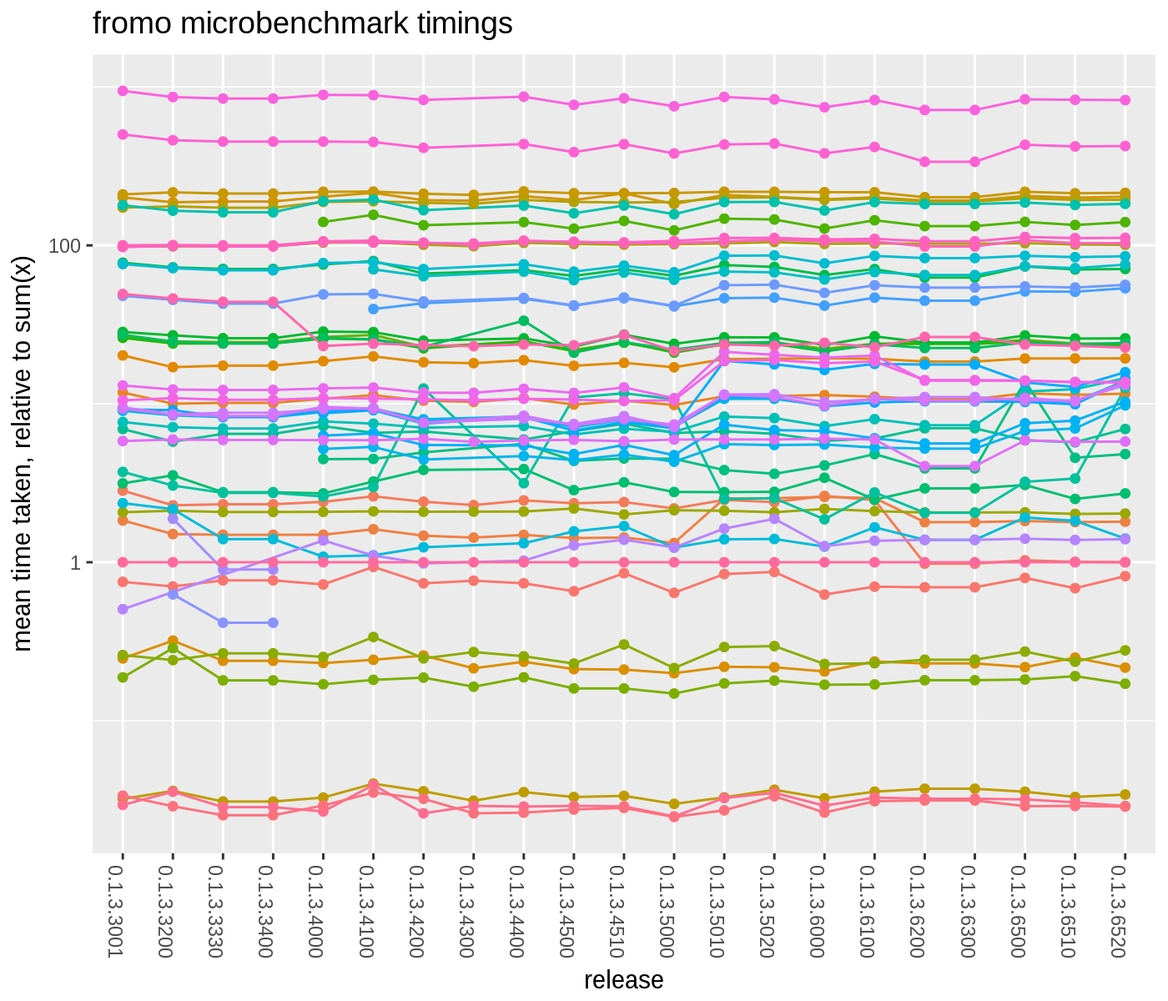
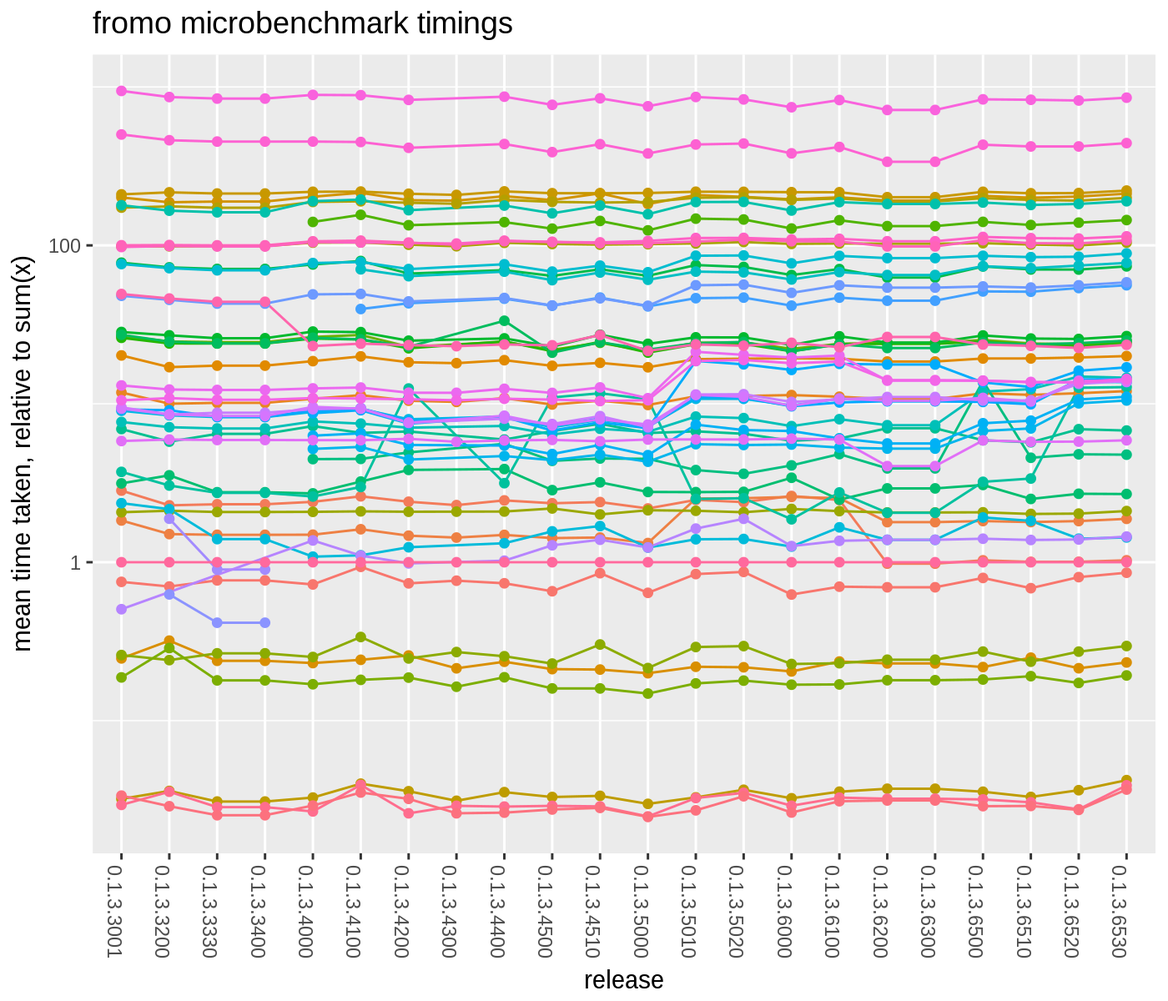
correcting converter to skew and whatnot.
denominator and normalization. used_df is for sg only?

diff --git a/src/fromo.cpp b/src/fromo.cpp
@@ -2380,8 +2380,7 @@ class moment_converter<ret_skew4,F,T,renormalize> {
                     xret(rownum,3) = mydf; 
                     xret(rownum,2) = vret[1];
                     xret(rownum,1) = sigma;
-                    // uhoh! renormalization!
-                    xret(rownum,0) = COMP_SKEW_TWO(vret,dwsum) / sqrt(dwsum);
+                    xret(rownum,0) = COMP_SKEW_TWO(vret,dwsum);
                 } else {
                     xret(rownum,3) = mydf; 
                     if (mydf >= 1) {
@@ -2436,9 +2435,9 @@ class moment_converter<ret_exkurt5,F,T,renormalize> {
                     xret(rownum,3) = vret[1];
                     xret(rownum,2) = sigma;
                     // uhoh! renormalization!
-                    xret(rownum,1) = COMP_SKEW_TWO(vret,dwsum) / sqrt(dwsum);
+                    xret(rownum,1) = COMP_SKEW_TWO(vret,dwsum);
                     // uhoh! renormalization!
-                    xret(rownum,0) = (COMP_KURT_TWO(vret,dwsum) / dwsum) - 3.0;
+                    xret(rownum,0) = (COMP_KURT_TWO(vret,dwsum)) - 3.0;
                 } else {
                     xret(rownum,4) = mydf; 
                     if (mydf >= 1) {
@@ -2447,7 +2446,7 @@ class moment_converter<ret_exkurt5,F,T,renormalize> {
                             xret(rownum,2) = sigma;
                             if (mydf >= 3) {
                                 // uhoh! renormalization!
-                                xret(rownum,1) = COMP_SKEW_TWO(vret,dwsum) / sqrt(dwsum);
+                                xret(rownum,1) = COMP_SKEW_TWO(vret,dwsum);
                             } else {
                                 xret(rownum,1) = NAN;
                             }
@@ -3525,7 +3524,6 @@ NumericVector cent2raw(NumericVector input) {
 // for help on dispatch, see:
 // http://stackoverflow.com/a/25254680/164611
 // http://gallery.rcpp.org/articles/rcpp-wrap-and-recurse/
-
-
+     
 //for vim modeline: (do not edit)
 // vim:et:nowrap:ts=4:sw=4:tw=129:fdm=marker:fmr=FOLDUP,UNFOLD:cms=//%s:tags=.c_tags;:syn=cpp:ft=cpp:mps+=<\:>:ai:si:cin:nu:fo=croql:cino=p0t0c5(0:

diff --git a/nodist/timings.md b/nodist/timings.md
@@ -25,7 +25,7 @@ print(Sys.info())
 ##                                       sysname                                       release                                       version 
 ##                                       "Linux"                            "4.4.0-77-generic" "#98-Ubuntu SMP Wed Apr 26 08:34:02 UTC 2017" 
 ##                                      nodename                                       machine                                         login 
-##                                "9ce2c05e6acc"                                      "x86_64"                                     "unknown" 
+##                                "541b36143acc"                                      "x86_64"                                     "unknown" 
 ##                                          user                                effective_user 
 ##                                        "spav"                                        "spav"
 ```
@@ -49,7 +49,7 @@ print(sessionInfo())
 ## 
 ## other attached packages:
 ##  [1] RcppParallel_4.3.20    RcppRoll_0.2.2         roll_1.0.7             RollingWindow_0.2      microbenchmark_1.4-2.1 moments_0.14          
-##  [7] dplyr_0.5.0            ggplot2_2.2.1          knitr_1.15.1           fromo_0.1.3.6520      
+##  [7] dplyr_0.5.0            ggplot2_2.2.1          knitr_1.15.1           fromo_0.1.3.6530      
 ## 
 ## loaded via a namespace (and not attached):
 ##  [1] Rcpp_0.12.11     grDevices_3.3.0  assertthat_0.1   R6_2.1.2         grid_3.3.0       plyr_1.8.4       DBI_0.6-1        gtable_0.2.0     formatR_1.4     
@@ -78,15 +78,15 @@ print(checkit)
 ```
 ## Unit: microseconds
 ##         expr   min    lq  mean median    uq   max neval      cld
-##       sum(x)    80    80    85     80    87   144   100 a       
-##      mean(x)   162   164   172    166   176   289   100 a       
-##        sd(x)   459   466   489    475   490   707   100  b      
-##  skewness(x)  8285  8352  8717   8447  8860 11501   100     e   
-##  kurtosis(x)  8104  8166  8464   8212  8565 10295   100    d    
-##       sd3(x)  1113  1120  1164   1137  1172  1436   100   c     
-##     skew4(x)  9029  9107  9358   9162  9514 10729   100      f  
-##     kurt5(x) 15760 15854 16226  16015 16368 18978   100       g 
-##     dumbk(x) 17080 17252 18114  17582 18713 22048   100        h
+##       sum(x)    80    80    82     80    81   100   100 a       
+##      mean(x)   162   163   172    165   171   264   100 a       
+##        sd(x)   459   463   480    475   486   595   100  b      
+##  skewness(x)  8288  8341  8765   8422  8766 13862   100     e   
+##  kurtosis(x)  8120  8197  8482   8257  8420 11483   100    d    
+##       sd3(x)  1113  1122  1170   1145  1172  1476   100   c     
+##     skew4(x)  9017  9091  9297   9163  9344 11317   100      f  
+##     kurt5(x) 15758 15866 16272  16015 16259 20392   100       g 
+##     dumbk(x) 17052 17257 18080  17514 18807 22264   100        h
 ```
 
 ```r
@@ -111,9 +111,9 @@ print(checkit)
 ```
 ## Unit: milliseconds
 ##                                                                          expr  min   lq mean median   uq  max neval cld
-##  cent_moments(x, max_order = 4, wts = w, na_rm = TRUE, normalize_wts = FALSE) 16.7 16.8 17.2   16.9 17.1 21.6   100   c
+##  cent_moments(x, max_order = 4, wts = w, na_rm = TRUE, normalize_wts = FALSE) 16.6 16.7 17.3   16.9 17.4 20.7   100   c
 ##                                                               sd3(x, wts = w)  1.1  1.1  1.2    1.1  1.2  1.4   100 a  
-##                                                                 slow_sd(x, w)  1.4  1.4  1.9    1.5  2.7  4.0   100  b
+##                                                                 slow_sd(x, w)  1.4  1.4  1.9    1.5  2.7  3.7   100  b
 ```
 
 ```r
@@ -134,10 +134,10 @@ print(checkit)
 ```
 ## Unit: microseconds
 ##                expr  min   lq mean median   uq  max neval  cld
-##  as.centsums(x1, 1)   77   79   85     84   88  144   100 a   
-##  as.centsums(x1, 2)  140  142  154    153  158  346   100  b  
-##  as.centsums(x1, 3)  922  927  988    983 1024 1260   100   c 
-##  as.centsums(x1, 4) 1550 1564 1660   1675 1713 2235   100    d
+##  as.centsums(x1, 1)   76   78   84     83   86   99   100 a   
+##  as.centsums(x1, 2)  140  142  153    152  154  314   100  b  
+##  as.centsums(x1, 3)  921  928  980   1000 1005 1133   100   c 
+##  as.centsums(x1, 4) 1549 1554 1632   1640 1690 1822   100    d
 ```
 
 ```r
@@ -156,8 +156,8 @@ print(checkit)
 ```
 ## Unit: microseconds
 ##           expr min lq mean median uq max neval cld
-##  c(obj1, obj2)  14 15   18     16 16 178   100   a
-##  obj3 %-% obj1  11 12   15     13 13  93   100   a
+##  c(obj1, obj2)  15 16   19     17 18 190   100   a
+##  obj3 %-% obj1  12 13   16     13 14  97   100   a
 ```
 
 ```r
@@ -176,10 +176,10 @@ print(checkit)
 
 ```
 ## Unit: microseconds
-##                        expr min  lq mean median  uq  max neval cld
-##    join_cent_sums(rs1, rs2) 2.2 2.4  3.1    2.5 2.6 37.1   100   b
-##  unjoin_cent_sums(rs3, rs2) 2.0 2.2  2.3    2.3 2.4  3.1   100  a 
-##  unjoin_cent_sums(rs3, rs1) 2.0 2.1  2.3    2.2 2.4  7.2   100  a
+##                        expr min  lq mean median  uq max neval cld
+##    join_cent_sums(rs1, rs2) 2.8 3.0  3.4    3.1 3.3  28   100   a
+##  unjoin_cent_sums(rs3, rs2) 2.5 2.7  3.0    2.8 3.0  18   100   a
+##  unjoin_cent_sums(rs3, rs1) 2.5 2.7  3.2    2.8 2.9  24   100   a
 ```
 
 ```r
@@ -211,8 +211,8 @@ print(checkit)
 ```
 ## Unit: microseconds
 ##                        expr min lq mean median uq max neval cld
-##  as.centcosums(x1, max_ord)  60 62   68     63 68 176   100   b
-##             mobj3 %-% mobj1  19 20   23     22 23  46   100  a
+##  as.centcosums(x1, max_ord)  62 64   70     65 67 216   100   b
+##             mobj3 %-% mobj1  20 21   24     22 24  39   100  a
 ```
 
 ```r
@@ -272,34 +272,34 @@ print(checkit)
 
 ```
 ## Unit: microseconds
-##                                                           expr   min    lq  mean median    uq    max neval       cld
-##                         silly_fun(x, wins, sum, na.rm = FALSE) 32014 33031 35636  34990 35886 114927   100        h 
-##                        silly_fun(x, wins, mean, na.rm = FALSE) 63374 65581 69574  66776 68829 146905   100         i
-##                                           running_sum(x, wins)   105   111   118    115   121    249   100 a        
-##                                          running_mean(x, wins)   106   112   119    117   123    155   100 a        
-##                                       roll::roll_sum(xm, wins)  1899  1944  2046   1975  2010   4535   100   c      
-##                                      roll::roll_mean(xm, wins)  2080  2112  2173   2146  2191   2676   100   c      
-##                                        roll::roll_sd(xm, wins)  5754  5820  5960   5874  5952   7106   100    de    
-##       RollingWindow::RollingSum(x, wins, na_method = "ignore")   370   401   586    433   467   3419   100 a c      
-##                             RollingWindow::RollingSum(x, wins)   123   145  1070    166   199  80931   100 a c      
-##                            RollingWindow::RollingMean(x, wins)   152   179   229    197   232   2751   100 ab       
-##                             RollingWindow::RollingStd(x, wins)   232   267   406    293   319   2819   100 a c      
-##   RcppRoll::roll_sum(xm, n = wins, align = "right", fill = NA)  1748  1799  1959   1956  2012   4476   100  bc      
-##  RcppRoll::roll_mean(xm, n = wins, align = "right", fill = NA)  1739  1847  2013   2007  2054   3941   100  bc      
-##    RcppRoll::roll_sd(xm, n = wins, align = "right", fill = NA) 10620 10975 11781  11286 12931  14616   100      f   
-##    running_sd(x, wins, na_rm = FALSE, restart_period = 50000L)   731   781   853    846   898   1068   100 a c      
-##      running_sd(x, wins, na_rm = TRUE, restart_period = 1000L)   784   825   903    886   954   1318   100 a c      
-##                                           running_sd3(x, wins)  1187  1260  1370   1366  1434   1779   100 a c      
-##                                          running_skew(x, wins)  4239  4330  4556   4410  4608   9977   100    d     
-##                                         running_skew4(x, wins)  4498  4571  4741   4674  4804   5755   100    d     
-##                                          running_kurt(x, wins)  6031  6126  6317   6225  6380   8644   100    de    
-##                                         running_kurt5(x, wins)  6827  6956  7183   7058  7205  10252   100     e    
-##                                         running_tstat(x, wins)  1005  1059  1132   1122  1188   1543   100 a c      
-##                                       running_zscored(x, wins)  1017  1073  1185   1149  1226   3153   100 a c      
-##                                        running_sharpe(x, wins)  1008  1062  1207   1126  1207   3550   100 a c      
-##                                    running_apx_median(x, wins) 14809 15017 15465  15128 15400  25480   100       g  
-##                                      running_centered(x, wins)  1100  1179  1259   1247  1322   1653   100 a c      
-##                                        running_scaled(x, wins)  1003  1072  1170   1136  1208   3889   100 a c
+##                                                           expr   min    lq  mean median    uq    max neval        cld
+##                         silly_fun(x, wins, sum, na.rm = FALSE) 32439 33879 36038  35189 36275 111397   100         i 
+##                        silly_fun(x, wins, mean, na.rm = FALSE) 63459 65507 69758  66836 69396 144116   100          j
+##                                           running_sum(x, wins)   104   110   118    112   124    203   100 a         
+##                                          running_mean(x, wins)   106   110   117    113   121    173   100 a         
+##                                       roll::roll_sum(xm, wins)  1840  1931  2041   1974  2026   4047   100   cd      
+##                                      roll::roll_mean(xm, wins)  2065  2108  2180   2129  2205   2808   100    d      
+##                                        roll::roll_sd(xm, wins)  5730  5795  6010   5867  5988   7317   100     ef    
+##       RollingWindow::RollingSum(x, wins, na_method = "ignore")   358   385   553    426   461   2735   100 a  d      
+##                             RollingWindow::RollingSum(x, wins)   113   132  1039    157   191  79345   100 a  d      
+##                            RollingWindow::RollingMean(x, wins)   141   163   220    194   225   2491   100 ab        
+##                             RollingWindow::RollingStd(x, wins)   226   255   389    286   319   2467   100 a c       
+##   RcppRoll::roll_sum(xm, n = wins, align = "right", fill = NA)  1754  1852  1979   1955  2015   4178   100  bcd      
+##  RcppRoll::roll_mean(xm, n = wins, align = "right", fill = NA)  1733  1822  2034   2015  2106   4044   100   cd      
+##    RcppRoll::roll_sd(xm, n = wins, align = "right", fill = NA) 10668 11060 11783  11339 12691  14737   100       g   
+##    running_sd(x, wins, na_rm = FALSE, restart_period = 50000L)   720   775   856    849   926   1141   100 a  d      
+##      running_sd(x, wins, na_rm = TRUE, restart_period = 1000L)   788   837   903    880   953   1150   100 a  d      
+##                                           running_sd3(x, wins)  1200  1287  1385   1351  1467   1762   100 a  d      
+##                                          running_skew(x, wins)  4235  4339  4567   4421  4596  10061   100     e     
+##                                         running_skew4(x, wins)  4484  4611  4767   4709  4823   5661   100     e     
+##                                          running_kurt(x, wins)  6013  6115  6324   6201  6384   8357   100     ef    
+##                                         running_kurt5(x, wins)  6799  6995  7257   7106  7387   9628   100      f    
+##                                         running_tstat(x, wins)  1021  1068  1136   1131  1181   1479   100 a  d      
+##                                       running_zscored(x, wins)  1012  1047  1121   1078  1126   3063   100 a  d      
+##                                        running_sharpe(x, wins)  1006  1044  1165   1088  1118   3383   100 a  d      
+##                                    running_apx_median(x, wins) 14751 14984 15481  15194 15713  18215   100        h  
+##                                      running_centered(x, wins)  1064  1141  1191   1173  1224   1528   100 a  d      
+##                                        running_scaled(x, wins)  1006  1041  1117   1082  1115   3429   100 a  d
 ```
 
 ```r
@@ -383,48 +383,48 @@ allt %>% select(expr, sernum, relchange, last_status) %>%
 
 
 
-|expr                                                                         | 0.1.3.3001| 0.1.3.3200| 0.1.3.3330| 0.1.3.3400| 0.1.3.4000| 0.1.3.4100| 0.1.3.4200| 0.1.3.4300| 0.1.3.4400| 0.1.3.4500| 0.1.3.4510| 0.1.3.5000| 0.1.3.5010| 0.1.3.5020| 0.1.3.6000| 0.1.3.6100| 0.1.3.6200| 0.1.3.6300| 0.1.3.6500| 0.1.3.6510| 0.1.3.6520|
-|:----------------------------------------------------------------------------|----------:|----------:|----------:|----------:|----------:|----------:|----------:|----------:|----------:|----------:|----------:|----------:|----------:|----------:|----------:|----------:|----------:|----------:|----------:|----------:|----------:|
-|RollingWindow::RollingSum(x, wins)                                           |          1|       0.82|       0.74|       0.74|       0.70|       0.80|       3.36|         NA|       0.85|       2.95|       3.14|       2.87|       0.67|       0.68|       0.50|       0.74|       0.55|       0.55|       0.87|       0.91|       3.39|
-|running_sum(x, wins)                                                         |          1|         NA|         NA|         NA|       2.72|       2.18|       1.95|         NA|       2.02|       2.53|       2.74|       2.45|       3.23|       3.72|       2.50|       2.70|       2.74|       2.74|       2.79|       2.74|       2.77|
-|running_centered(x, wins)                                                    |          1|       0.93|       0.91|       0.91|       1.01|       0.98|       0.92|         NA|       0.94|       0.84|       0.91|       0.87|       1.08|       1.06|       0.94|       1.04|       0.95|       0.95|       1.56|       1.61|       1.89|
-|running_sd(x, wins, na_rm = FALSE, restart_period = 50000L)                  |         NA|         NA|         NA|         NA|       1.00|       1.03|       0.86|         NA|       0.90|       0.85|       0.92|       0.83|       1.07|       1.06|       1.07|       1.02|       1.00|       1.00|       1.30|       1.35|       1.88|
-|running_sd3(x, wins)                                                         |         NA|         NA|         NA|         NA|       1.00|       1.04|       0.86|         NA|       0.95|       0.78|       0.88|       0.80|       2.14|       2.03|       1.88|       2.05|       2.03|       2.03|       1.56|       1.46|       1.82|
-|running_sd(x, wins, na_rm = TRUE, restart_period = 1000L)                    |         NA|         NA|         NA|         NA|       1.00|       1.03|       0.87|         NA|       0.87|       0.77|       0.87|       0.75|       1.17|       1.08|       1.07|       0.96|       0.89|       0.89|       1.20|       1.24|       1.64|
-|running_scaled(x, wins)                                                      |          1|       0.94|       0.91|       0.91|       0.98|       1.03|       0.88|         NA|       0.92|       0.79|       0.88|       0.79|       1.19|       1.19|       1.08|       1.19|       1.15|       1.15|       1.15|       1.15|       1.54|
-|running_sharpe(x, wins)                                                      |          1|       0.99|       0.90|       0.90|       0.98|       1.02|       0.84|         NA|       0.90|       0.79|       0.88|       0.77|       1.20|       1.19|       1.05|       1.11|       1.13|       1.13|       1.11|       1.08|       1.53|
-|running_zscored(x, wins)                                                     |          1|       0.90|       0.88|       0.88|       1.01|       0.98|       0.80|         NA|       0.89|       0.77|       0.84|       0.78|       1.20|       1.17|       1.02|       1.14|       1.10|       1.10|       1.15|       1.09|       1.44|
-|running_tstat(x, wins)                                                       |          1|       0.92|       0.94|       0.94|       0.99|       1.01|       0.82|         NA|       0.86|       0.80|       0.90|       0.76|       1.23|       1.23|       1.10|       1.14|       1.18|       1.18|       1.13|       1.13|       1.41|
-|running_skew(x, wins)                                                        |         NA|         NA|         NA|         NA|         NA|       1.00|       1.09|         NA|       1.16|       1.05|       1.18|       1.04|       1.17|       1.18|       1.05|       1.18|       1.13|       1.13|       1.29|       1.29|       1.35|
-|sd3(x)                                                                       |          1|       1.03|       1.01|       1.01|       1.03|       1.03|       1.02|       1.00|       1.02|       1.01|       0.99|       1.00|       1.77|       1.80|       1.71|       1.76|       1.34|       1.34|       1.33|       1.30|       1.30|
-|running_skew4(x, wins)                                                       |          1|       0.94|       0.89|       0.89|       1.02|       1.03|       0.92|         NA|       0.97|       0.87|       0.96|       0.86|       1.17|       1.18|       1.04|       1.17|       1.13|       1.13|       1.15|       1.13|       1.17|
-|skew4(x)                                                                     |          1|       1.01|       1.01|       1.01|       1.07|       1.07|       1.06|       1.05|       1.10|       1.08|       1.07|       1.09|       1.14|       1.14|       1.12|       1.13|       1.09|       1.09|       1.16|       1.14|       1.14|
-|kurt5(x)                                                                     |          1|       1.02|       1.00|       1.00|       1.09|       1.10|       1.07|       1.06|       1.12|       1.09|       1.08|       1.08|       1.15|       1.16|       1.12|       1.14|       1.09|       1.09|       1.15|       1.12|       1.12|
-|running_kurt5(x, wins)                                                       |          1|       0.94|       0.91|       0.91|       1.01|       1.03|       0.93|         NA|       1.00|       0.90|       0.98|       0.89|       1.13|       1.13|       1.01|       1.13|       1.09|       1.09|       1.13|       1.11|       1.12|
-|as.centcosums(x1, max_ord)                                                   |          1|       0.93|       1.02|       1.02|       0.96|       1.24|       0.98|       1.02|       0.98|       0.87|       1.13|       0.85|       1.12|       1.16|       0.83|       0.93|       0.92|       0.92|       1.06|       0.91|       1.09|
-|RollingWindow::RollingStd(x, wins)                                           |         NA|         NA|         NA|         NA|       1.00|       1.00|       1.10|         NA|       1.25|       0.98|       1.01|       1.00|       0.85|       0.81|       0.91|       1.08|       0.87|       0.87|       3.10|       1.02|       1.08|
-|running_kurt(x, wins)                                                        |         NA|         NA|         NA|         NA|         NA|       1.00|       0.91|         NA|       0.97|       0.85|       0.95|       0.86|       0.97|       0.96|       0.86|       0.96|       0.92|       0.92|       1.05|       1.02|       1.07|
-|mobj3 %-% mobj1                                                              |          1|       0.93|       1.03|       1.03|       0.97|       1.30|       0.95|       1.04|       0.98|       0.88|       1.17|       0.83|       1.12|       1.14|       0.88|       0.89|       0.93|       0.93|       1.05|       0.91|       1.07|
-|join_cent_sums(rs1, rs2)                                                     |          1|       1.12|       0.96|       0.96|       1.02|       1.25|       1.12|       0.97|       1.10|       1.03|       1.05|       0.93|       1.02|       1.14|       1.01|       1.11|       1.16|       1.16|       1.11|       1.03|       1.07|
-|sd3(x, wts = w)                                                              |          1|       0.94|       0.94|       0.94|       0.96|       0.97|       0.90|       0.90|       0.95|       0.90|       0.97|       0.83|       1.63|       1.56|       1.50|       1.54|       1.07|       1.07|       1.07|       1.05|       1.04|
-|skewness(x)                                                                  |          1|       1.00|       1.00|       1.00|       1.06|       1.07|       1.04|       1.01|       1.06|       1.05|       1.03|       1.03|       1.06|       1.08|       1.06|       1.05|       0.98|       0.98|       1.08|       1.03|       1.03|
-|kurtosis(x)                                                                  |          1|       1.00|       1.00|       1.00|       1.06|       1.06|       1.03|       1.00|       1.05|       1.04|       1.03|       1.03|       1.04|       1.07|       1.04|       1.04|       1.04|       1.04|       1.05|       1.03|       1.02|
-|dumbk(x)                                                                     |          1|       1.03|       1.01|       1.01|       1.04|       1.04|       1.01|       0.99|       1.04|       1.02|       1.02|       1.02|       1.04|       1.04|       1.03|       1.03|       0.96|       0.96|       1.04|       1.02|       1.02|
-|running_apx_median(x, wins)                                                  |          1|       0.92|       0.90|       0.90|       1.06|       1.09|       0.93|         NA|       1.00|       0.89|       1.00|       0.88|       1.05|       1.05|       0.93|       1.05|       1.02|       1.02|       1.04|       1.00|       1.02|
-|cent_moments(x, max_order = 4, wts = w, na_rm = TRUE, normalize_wts = FALSE) |          1|       0.93|       0.94|       0.94|       1.01|       1.07|       0.96|       0.95|       1.02|       0.96|       1.06|       0.91|       1.04|       1.01|       0.97|       1.00|       0.96|       0.96|       1.02|       1.00|       1.01|
-|RollingWindow::RollingSum(x, wins, na_method = "ignore")                     |          1|       0.83|       0.93|       0.93|       1.04|       0.95|       0.96|         NA|       0.86|       0.97|       1.08|       0.94|       0.97|       0.93|       0.84|       0.87|       1.01|       1.01|       0.85|       0.82|       1.00|
-|sum(x)                                                                       |          1|       1.00|       1.00|       1.00|       1.00|       1.00|       1.00|       1.00|       1.00|       1.00|       1.00|       1.00|       1.00|       1.00|       1.00|       1.00|       1.00|       1.00|       1.00|       1.00|       1.00|
-|RcppRoll::roll_sd(xm, n = wins, align = "right", fill = NA)                  |         NA|         NA|         NA|         NA|       1.00|       1.11|       0.95|         NA|       1.00|       0.91|       1.01|       0.88|       1.05|       1.04|       0.91|       1.02|       0.94|       0.94|       1.00|       0.96|       1.00|
-|sd(x)                                                                        |          1|       1.02|       1.01|       1.01|       1.01|       1.01|       1.03|       0.99|       1.01|       1.02|       1.00|       1.02|       1.02|       1.02|       1.04|       1.02|       0.69|       0.69|       1.01|       0.99|       0.99|
-|unjoin_cent_sums(rs3, rs1)                                                   |          1|       1.21|       0.97|       0.97|       0.91|       1.34|       0.88|       0.99|       0.98|       0.99|       0.98|       0.85|       1.10|       1.19|       0.99|       1.11|       1.09|       1.09|       1.08|       1.04|       0.98|
-|as.centsums(x1, 2)                                                           |          1|       0.82|       0.81|       0.81|       0.81|       0.88|       0.80|       0.78|       0.81|       0.77|       0.78|       0.72|       1.38|       1.38|       1.41|       1.38|       0.98|       0.98|       0.99|       0.98|       0.98|
-|as.centsums(x1, 3)                                                           |          1|       0.85|       0.86|       0.86|       0.91|       0.96|       0.89|       0.87|       0.92|       0.84|       0.89|       0.83|       0.95|       0.95|       0.96|       0.94|       0.91|       0.91|       0.99|       0.97|       0.98|
-|mean(x)                                                                      |          1|       1.02|       1.00|       1.00|       1.01|       1.01|       1.01|       1.01|       1.01|       1.06|       0.97|       1.03|       1.02|       1.00|       1.05|       1.02|       1.00|       1.00|       1.00|       0.98|       0.98|
-|as.centsums(x1, 4)                                                           |          1|       0.84|       0.86|       0.86|       0.92|       0.99|       0.91|       0.89|       0.93|       0.86|       0.90|       0.84|       0.95|       0.95|       0.96|       0.95|       0.92|       0.92|       0.96|       0.96|       0.96|
-|roll::roll_sd(xm, wins)                                                      |          1|       0.93|       0.91|       0.91|       0.97|       1.02|       0.85|         NA|       0.90|       0.83|       0.91|       0.83|       0.97|       0.94|       0.84|       0.91|       0.81|       0.81|       0.95|       0.91|       0.91|
-|obj3 %-% obj1                                                                |          1|       1.53|       0.96|       0.96|       0.91|       0.97|       1.00|       0.87|       1.00|       0.85|       0.85|       0.79|       0.92|       0.95|       0.90|       0.90|       0.96|       0.96|       0.97|       1.02|       0.91|
-|roll::roll_mean(xm, wins)                                                    |          1|       0.95|       0.91|       0.91|       1.01|       1.00|       0.88|         NA|       0.91|       0.81|       0.96|       0.84|       0.93|       0.92|       0.83|       0.94|       0.86|       0.86|       0.95|       0.91|       0.91|
-|RcppRoll::roll_sum(xm, n = wins, align = "right", fill = NA)                 |          1|       0.92|       0.92|       0.92|       0.99|       0.98|       0.86|         NA|       0.95|       0.82|       0.94|       0.81|       0.91|       0.91|       0.82|       0.91|       0.92|       0.92|       0.95|       0.90|       0.89|
+|expr                                                                         | 0.1.3.3001| 0.1.3.3200| 0.1.3.3330| 0.1.3.3400| 0.1.3.4000| 0.1.3.4100| 0.1.3.4200| 0.1.3.4300| 0.1.3.4400| 0.1.3.4500| 0.1.3.4510| 0.1.3.5000| 0.1.3.5010| 0.1.3.5020| 0.1.3.6000| 0.1.3.6100| 0.1.3.6200| 0.1.3.6300| 0.1.3.6500| 0.1.3.6510| 0.1.3.6520| 0.1.3.6530|
+|:----------------------------------------------------------------------------|----------:|----------:|----------:|----------:|----------:|----------:|----------:|----------:|----------:|----------:|----------:|----------:|----------:|----------:|----------:|----------:|----------:|----------:|----------:|----------:|----------:|----------:|
+|RollingWindow::RollingSum(x, wins)                                           |          1|       0.82|       0.74|       0.74|       0.70|       0.80|       3.36|         NA|       0.85|       2.95|       3.14|       2.87|       0.67|       0.68|       0.50|       0.74|       0.55|       0.55|       0.87|       0.91|       3.40|       3.43|
+|running_sum(x, wins)                                                         |          1|         NA|         NA|         NA|       2.72|       2.18|       1.95|         NA|       2.02|       2.53|       2.74|       2.45|       3.23|       3.72|       2.50|       2.70|       2.74|       2.74|       2.79|       2.74|       2.76|       2.87|
+|running_sd(x, wins, na_rm = FALSE, restart_period = 50000L)                  |         NA|         NA|         NA|         NA|       1.00|       1.03|       0.86|         NA|       0.90|       0.85|       0.92|       0.83|       1.07|       1.06|       1.07|       1.02|       1.00|       1.00|       1.30|       1.35|       1.94|       2.02|
+|running_sd3(x, wins)                                                         |         NA|         NA|         NA|         NA|       1.00|       1.04|       0.86|         NA|       0.95|       0.78|       0.88|       0.80|       2.14|       2.03|       1.88|       2.05|       2.03|       2.03|       1.56|       1.46|       1.85|       1.95|
+|running_centered(x, wins)                                                    |          1|       0.93|       0.91|       0.91|       1.01|       0.98|       0.92|         NA|       0.94|       0.84|       0.91|       0.87|       1.08|       1.06|       0.94|       1.04|       0.95|       0.95|       1.56|       1.61|       1.94|       1.90|
+|running_sd(x, wins, na_rm = TRUE, restart_period = 1000L)                    |         NA|         NA|         NA|         NA|       1.00|       1.03|       0.87|         NA|       0.87|       0.77|       0.87|       0.75|       1.17|       1.08|       1.07|       0.96|       0.89|       0.89|       1.20|       1.24|       1.69|       1.76|
+|running_sharpe(x, wins)                                                      |          1|       0.99|       0.90|       0.90|       0.98|       1.02|       0.84|         NA|       0.90|       0.79|       0.88|       0.77|       1.20|       1.19|       1.05|       1.11|       1.13|       1.13|       1.11|       1.08|       1.55|       1.55|
+|running_scaled(x, wins)                                                      |          1|       0.94|       0.91|       0.91|       0.98|       1.03|       0.88|         NA|       0.92|       0.79|       0.88|       0.79|       1.19|       1.19|       1.08|       1.19|       1.15|       1.15|       1.15|       1.15|       1.53|       1.52|
+|running_tstat(x, wins)                                                       |          1|       0.92|       0.94|       0.94|       0.99|       1.01|       0.82|         NA|       0.86|       0.80|       0.90|       0.76|       1.23|       1.23|       1.10|       1.14|       1.18|       1.18|       1.13|       1.13|       1.43|       1.50|
+|running_zscored(x, wins)                                                     |          1|       0.90|       0.88|       0.88|       1.01|       0.98|       0.80|         NA|       0.89|       0.77|       0.84|       0.78|       1.20|       1.17|       1.02|       1.14|       1.10|       1.10|       1.15|       1.09|       1.47|       1.45|
+|running_skew(x, wins)                                                        |         NA|         NA|         NA|         NA|         NA|       1.00|       1.09|         NA|       1.16|       1.05|       1.18|       1.04|       1.17|       1.18|       1.05|       1.18|       1.13|       1.13|       1.29|       1.29|       1.36|       1.41|
+|sd3(x)                                                                       |          1|       1.03|       1.01|       1.01|       1.03|       1.03|       1.02|       1.00|       1.02|       1.01|       0.99|       1.00|       1.77|       1.80|       1.71|       1.76|       1.34|       1.34|       1.33|       1.30|       1.31|       1.36|
+|unjoin_cent_sums(rs3, rs1)                                                   |          1|       1.21|       0.97|       0.97|       0.91|       1.34|       0.88|       0.99|       0.98|       0.99|       0.98|       0.85|       1.10|       1.19|       0.99|       1.11|       1.09|       1.09|       1.08|       1.04|       0.94|       1.33|
+|join_cent_sums(rs1, rs2)                                                     |          1|       1.12|       0.96|       0.96|       1.02|       1.25|       1.12|       0.97|       1.10|       1.03|       1.05|       0.93|       1.02|       1.14|       1.01|       1.11|       1.16|       1.16|       1.11|       1.03|       1.13|       1.31|
+|running_skew4(x, wins)                                                       |          1|       0.94|       0.89|       0.89|       1.02|       1.03|       0.92|         NA|       0.97|       0.87|       0.96|       0.86|       1.17|       1.18|       1.04|       1.17|       1.13|       1.13|       1.15|       1.13|       1.16|       1.22|
+|skew4(x)                                                                     |          1|       1.01|       1.01|       1.01|       1.07|       1.07|       1.06|       1.05|       1.10|       1.08|       1.07|       1.09|       1.14|       1.14|       1.12|       1.13|       1.09|       1.09|       1.16|       1.14|       1.13|       1.17|
+|running_kurt5(x, wins)                                                       |          1|       0.94|       0.91|       0.91|       1.01|       1.03|       0.93|         NA|       1.00|       0.90|       0.98|       0.89|       1.13|       1.13|       1.01|       1.13|       1.09|       1.09|       1.13|       1.11|       1.11|       1.17|
+|kurt5(x)                                                                     |          1|       1.02|       1.00|       1.00|       1.09|       1.10|       1.07|       1.06|       1.12|       1.09|       1.08|       1.08|       1.15|       1.16|       1.12|       1.14|       1.09|       1.09|       1.15|       1.12|       1.11|       1.15|
+|as.centcosums(x1, max_ord)                                                   |          1|       0.93|       1.02|       1.02|       0.96|       1.24|       0.98|       1.02|       0.98|       0.87|       1.13|       0.85|       1.12|       1.16|       0.83|       0.93|       0.92|       0.92|       1.06|       0.91|       1.07|       1.14|
+|mobj3 %-% mobj1                                                              |          1|       0.93|       1.03|       1.03|       0.97|       1.30|       0.95|       1.04|       0.98|       0.88|       1.17|       0.83|       1.12|       1.14|       0.88|       0.89|       0.93|       0.93|       1.05|       0.91|       1.05|       1.14|
+|running_kurt(x, wins)                                                        |         NA|         NA|         NA|         NA|         NA|       1.00|       0.91|         NA|       0.97|       0.85|       0.95|       0.86|       0.97|       0.96|       0.86|       0.96|       0.92|       0.92|       1.05|       1.02|       1.06|       1.10|
+|unjoin_cent_sums(rs3, rs2)                                                   |          1|       0.86|       0.75|       0.75|       0.87|       1.05|       0.95|       0.77|       0.78|       0.82|       0.84|       0.73|       0.81|       0.99|       0.78|       0.92|       0.93|       0.93|       0.86|       0.86|       0.81|       1.09|
+|sd3(x, wts = w)                                                              |          1|       0.94|       0.94|       0.94|       0.96|       0.97|       0.90|       0.90|       0.95|       0.90|       0.97|       0.83|       1.63|       1.56|       1.50|       1.54|       1.07|       1.07|       1.07|       1.05|       1.04|       1.08|
+|skewness(x)                                                                  |          1|       1.00|       1.00|       1.00|       1.06|       1.07|       1.04|       1.01|       1.06|       1.05|       1.03|       1.03|       1.06|       1.08|       1.06|       1.05|       0.98|       0.98|       1.08|       1.03|       1.03|       1.07|
+|RollingWindow::RollingStd(x, wins)                                           |         NA|         NA|         NA|         NA|       1.00|       1.00|       1.10|         NA|       1.25|       0.98|       1.01|       1.00|       0.85|       0.81|       0.91|       1.08|       0.87|       0.87|       3.10|       1.02|       1.07|       1.07|
+|running_apx_median(x, wins)                                                  |          1|       0.92|       0.90|       0.90|       1.06|       1.09|       0.93|         NA|       1.00|       0.89|       1.00|       0.88|       1.05|       1.05|       0.93|       1.05|       1.02|       1.02|       1.04|       1.00|       1.02|       1.06|
+|cent_moments(x, max_order = 4, wts = w, na_rm = TRUE, normalize_wts = FALSE) |          1|       0.93|       0.94|       0.94|       1.01|       1.07|       0.96|       0.95|       1.02|       0.96|       1.06|       0.91|       1.04|       1.01|       0.97|       1.00|       0.96|       0.96|       1.02|       1.00|       1.01|       1.06|
+|dumbk(x)                                                                     |          1|       1.03|       1.01|       1.01|       1.04|       1.04|       1.01|       0.99|       1.04|       1.02|       1.02|       1.02|       1.04|       1.04|       1.03|       1.03|       0.96|       0.96|       1.04|       1.02|       1.02|       1.06|
+|kurtosis(x)                                                                  |          1|       1.00|       1.00|       1.00|       1.06|       1.06|       1.03|       1.00|       1.05|       1.04|       1.03|       1.03|       1.04|       1.07|       1.04|       1.04|       1.04|       1.04|       1.05|       1.03|       1.01|       1.06|
+|obj3 %-% obj1                                                                |          1|       1.53|       0.96|       0.96|       0.91|       0.97|       1.00|       0.87|       1.00|       0.85|       0.85|       0.79|       0.92|       0.95|       0.90|       0.90|       0.96|       0.96|       0.97|       1.02|       0.92|       1.03|
+|RcppRoll::roll_sd(xm, n = wins, align = "right", fill = NA)                  |         NA|         NA|         NA|         NA|       1.00|       1.11|       0.95|         NA|       1.00|       0.91|       1.01|       0.88|       1.05|       1.04|       0.91|       1.02|       0.94|       0.94|       1.00|       0.96|       0.99|       1.03|
+|as.centsums(x1, 2)                                                           |          1|       0.82|       0.81|       0.81|       0.81|       0.88|       0.80|       0.78|       0.81|       0.77|       0.78|       0.72|       1.38|       1.38|       1.41|       1.38|       0.98|       0.98|       0.99|       0.98|       0.99|       1.02|
+|as.centsums(x1, 3)                                                           |          1|       0.85|       0.86|       0.86|       0.91|       0.96|       0.89|       0.87|       0.92|       0.84|       0.89|       0.83|       0.95|       0.95|       0.96|       0.94|       0.91|       0.91|       0.99|       0.97|       0.99|       1.02|
+|mean(x)                                                                      |          1|       1.02|       1.00|       1.00|       1.01|       1.01|       1.01|       1.01|       1.01|       1.06|       0.97|       1.03|       1.02|       1.00|       1.05|       1.02|       1.00|       1.00|       1.00|       0.98|       0.98|       1.02|
+|sd(x)                                                                        |          1|       1.02|       1.01|       1.01|       1.01|       1.01|       1.03|       0.99|       1.01|       1.02|       1.00|       1.02|       1.02|       1.02|       1.04|       1.02|       0.69|       0.69|       1.01|       0.99|       0.99|       1.01|
+|sum(x)                                                                       |          1|       1.00|       1.00|       1.00|       1.00|       1.00|       1.00|       1.00|       1.00|       1.00|       1.00|       1.00|       1.00|       1.00|       1.00|       1.00|       1.00|       1.00|       1.00|       1.00|       1.00|       1.00|
+|as.centsums(x1, 4)                                                           |          1|       0.84|       0.86|       0.86|       0.92|       0.99|       0.91|       0.89|       0.93|       0.86|       0.90|       0.84|       0.95|       0.95|       0.96|       0.95|       0.92|       0.92|       0.96|       0.96|       0.97|       0.99|
+|RollingWindow::RollingSum(x, wins, na_method = "ignore")                     |          1|       0.83|       0.93|       0.93|       1.04|       0.95|       0.96|         NA|       0.86|       0.97|       1.08|       0.94|       0.97|       0.93|       0.84|       0.87|       1.01|       1.01|       0.85|       0.82|       1.00|       0.98|
+|roll::roll_sd(xm, wins)                                                      |          1|       0.93|       0.91|       0.91|       0.97|       1.02|       0.85|         NA|       0.90|       0.83|       0.91|       0.83|       0.97|       0.94|       0.84|       0.91|       0.81|       0.81|       0.95|       0.91|       0.90|       0.95|
+|c(obj1, obj2)                                                                |          1|       1.29|       0.97|       0.97|       0.93|       0.98|       1.04|       0.87|       0.95|       0.86|       0.85|       0.81|       0.89|       0.88|       0.83|       0.96|       0.93|       0.93|       0.88|       1.01|       0.87|       0.94|
 
 ```r
 allt %>% select(-sernum, -relchange, -meantime, -sumx_time, 
@@ -437,25 +437,25 @@ allt %>% select(-sernum, -relchange, -meantime, -sumx_time,
 
 |expr                                                        | first_norm| last_norm| last_status|
 |:-----------------------------------------------------------|----------:|---------:|-----------:|
-|RollingWindow::RollingSum(x, wins)                          |       3.72|     12.60|         3.4|
-|running_sum(x, wins)                                        |       0.51|      1.40|         2.8|
-|running_centered(x, wins)                                   |       7.68|     14.51|         1.9|
-|running_sd(x, wins, na_rm = FALSE, restart_period = 50000L) |       5.19|      9.78|         1.9|
-|running_sd3(x, wins)                                        |       8.72|     15.84|         1.8|
-|running_sd(x, wins, na_rm = TRUE, restart_period = 1000L)   |       6.29|     10.30|         1.6|
-|running_scaled(x, wins)                                     |       9.03|     13.93|         1.5|
-|running_sharpe(x, wins)                                     |       9.22|     14.11|         1.5|
-|running_zscored(x, wins)                                    |       9.49|     13.70|         1.4|
-|running_tstat(x, wins)                                      |       9.32|     13.15|         1.4|
-|running_skew(x, wins)                                       |      39.66|     53.66|         1.4|
-|sd3(x)                                                      |      10.52|     13.72|         1.3|
-|running_skew4(x, wins)                                      |      48.07|     56.35|         1.2|
-|skew4(x)                                                    |      97.66|    111.52|         1.1|
-|kurt5(x)                                                    |     173.12|    193.90|         1.1|
-|running_kurt5(x, wins)                                      |      76.25|     85.37|         1.1|
-|as.centcosums(x1, max_ord)                                  |       0.75|      0.82|         1.1|
-|RollingWindow::RollingStd(x, wins)                          |       4.48|      4.82|         1.1|
-|running_kurt(x, wins)                                       |      70.61|     75.61|         1.1|
-|mobj3 %-% mobj1                                             |       0.26|      0.28|         1.1|
+|RollingWindow::RollingSum(x, wins)                          |       3.72|     12.74|         3.4|
+|running_sum(x, wins)                                        |       0.51|      1.45|         2.9|
+|running_sd(x, wins, na_rm = FALSE, restart_period = 50000L) |       5.19|     10.50|         2.0|
+|running_sd3(x, wins)                                        |       8.72|     16.99|         1.9|
+|running_centered(x, wins)                                   |       7.68|     14.61|         1.9|
+|running_sd(x, wins, na_rm = TRUE, restart_period = 1000L)   |       6.29|     11.08|         1.8|
+|running_sharpe(x, wins)                                     |       9.22|     14.29|         1.6|
+|running_scaled(x, wins)                                     |       9.03|     13.70|         1.5|
+|running_tstat(x, wins)                                      |       9.32|     13.94|         1.5|
+|running_zscored(x, wins)                                    |       9.49|     13.75|         1.4|
+|running_skew(x, wins)                                       |      39.66|     56.01|         1.4|
+|sd3(x)                                                      |      10.52|     14.35|         1.4|
+|unjoin_cent_sums(rs3, rs1)                                  |       0.03|      0.04|         1.3|
+|join_cent_sums(rs1, rs2)                                    |       0.03|      0.04|         1.3|
+|running_skew4(x, wins)                                      |      48.07|     58.46|         1.2|
+|skew4(x)                                                    |      97.66|    114.02|         1.2|
+|running_kurt5(x, wins)                                      |      76.25|     89.00|         1.2|
+|kurt5(x)                                                    |     173.12|    199.58|         1.1|
+|as.centcosums(x1, max_ord)                                  |       0.75|      0.86|         1.1|
+|mobj3 %-% mobj1                                             |       0.26|      0.30|         1.1|
 
 
